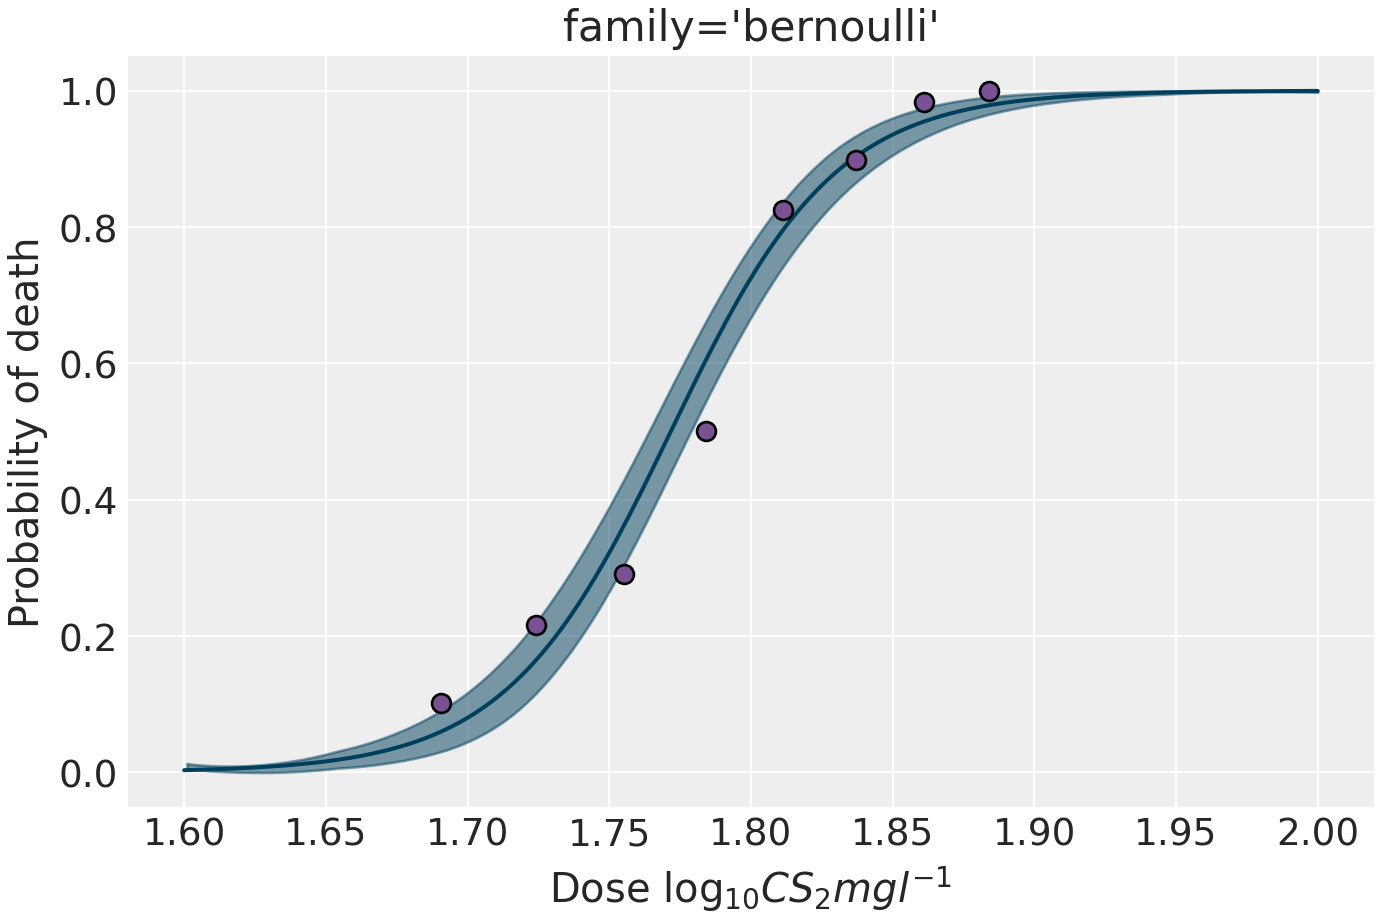
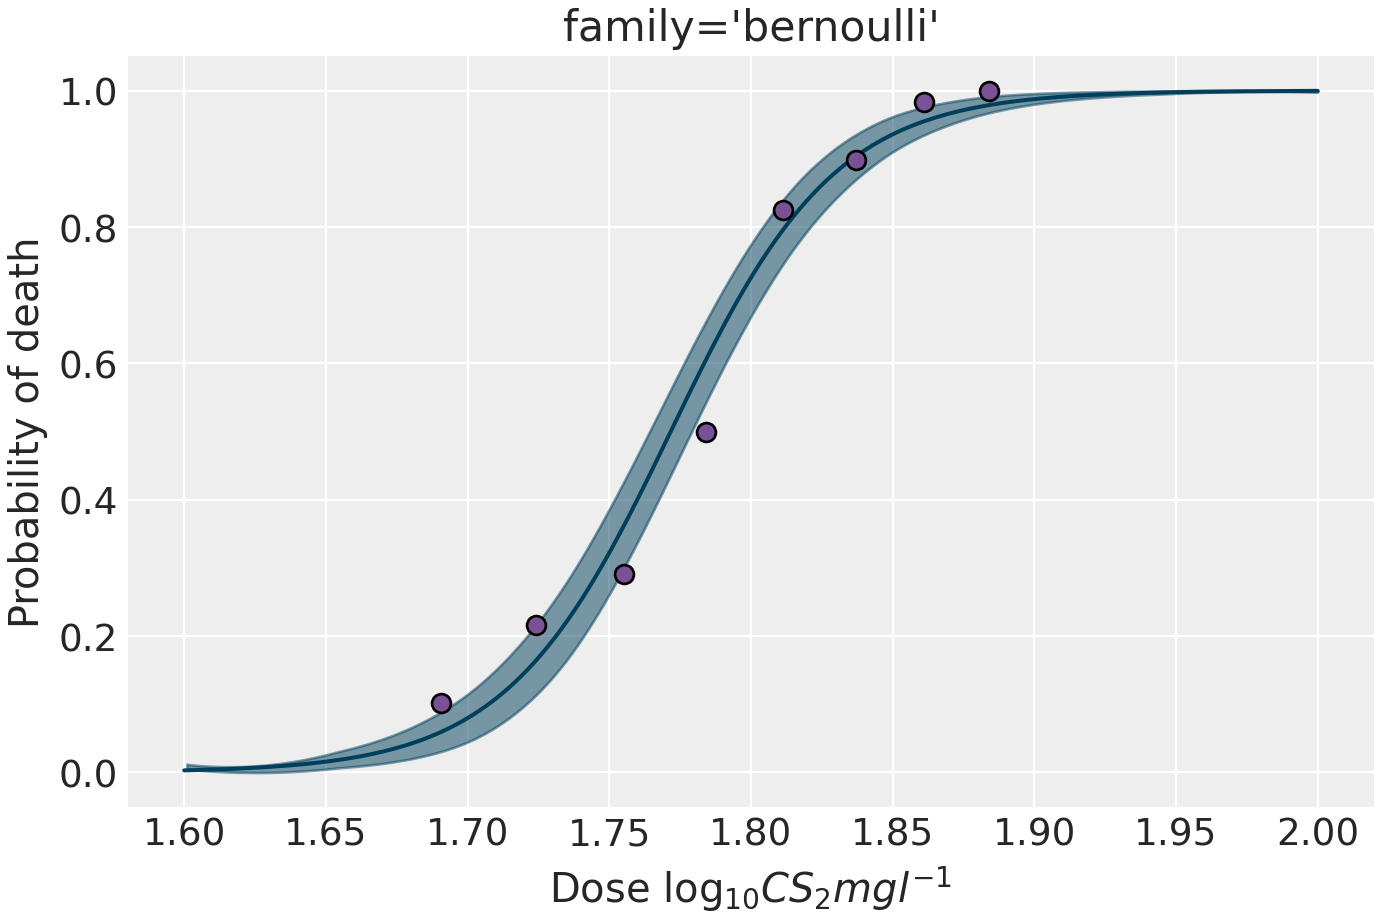
Rewrite sentence

diff --git a/content/post/2021-08-03-binomial-family-in-Bambi.html b/content/post/2021-08-03-binomial-family-in-Bambi.html
@@ -112,8 +112,8 @@ independent Bernoulli trials). In other words, for a given row, we can think
 there’s a Binomial distribution where <strong>Dead</strong> represents the number of
 successes out of <strong>Total</strong> number of trials (each mouse is a trial).</p>
 <p>Before continuing, it’s important to note that if the data is originally
-aggregated as in the upper table, it can always be disaggregated to resemble
-the one in the lower table. So what’s the problem?</p>
+aggregated as in the lower table, it can always be disaggregated to resemble
+the one in the upper table. So what’s the problem?</p>
 <p>The answer is that there’s actually nothing wrong with having the data in such
 a granular form! But, if the data already comes aggregated, why doing extra
 work when we now have the Binomial family? Let’s have a look at the examples
@@ -231,13 +231,13 @@ idata_brn = model_brn.fit()</code></pre>
 <p>and explore the marginal posteriors</p>
 <pre class="python"><code>az.summary(idata_brn, kind=&quot;stats&quot;)</code></pre>
 <pre><code>##              mean     sd  hdi_3%  hdi_97%
-## Intercept -61.080  5.264 -70.758  -51.139
-## x          34.475  2.958  28.872   39.940</code></pre>
+## Intercept -61.141  5.015 -70.230  -51.811
+## x          34.510  2.818  29.438   39.787</code></pre>
 <p>We can predict the the probability of dying for out-of-sample data to see how
 it evolves with the different concentration levels.</p>
 <pre class="python"><code>new_data = pd.DataFrame({&quot;x&quot;: np.linspace(1.6, 2, num=200)})
 model_brn.predict(idata_brn, data=new_data)</code></pre>
-<p>Let’s visualize the mean of the probability of dying well as the HDI for
+<p>Let’s visualize the mean of the probability of dying as well as the HDI for
 the posterior of this probability:</p>
 <pre class="python"><code>fig, ax = plt.subplots()
 
@@ -288,8 +288,8 @@ the Bernoulli family. However, the new Binomial family allows us to
 as the one displayed above.</p>
 <pre class="python"><code>az.summary(idata_bnml, kind=&quot;stats&quot;)</code></pre>
 <pre><code>##              mean     sd  hdi_3%  hdi_97%
-## Intercept -60.923  5.154 -70.272  -51.468
-## x          34.386  2.897  29.144   39.769</code></pre>
+## Intercept -61.023  5.130 -70.040  -51.145
+## x          34.442  2.884  28.914   39.571</code></pre>
 <pre class="python"><code>model_bnml.predict(idata_bnml, data=new_data)</code></pre>
 <pre class="python"><code>fig, ax = plt.subplots()
 

diff --git a/public/post/2021-08-03-binomial-family-in-bambi/index.html b/public/post/2021-08-03-binomial-family-in-bambi/index.html
@@ -274,8 +274,8 @@ independent Bernoulli trials). In other words, for a given row, we can think
 there’s a Binomial distribution where <strong>Dead</strong> represents the number of
 successes out of <strong>Total</strong> number of trials (each mouse is a trial).</p>
 <p>Before continuing, it’s important to note that if the data is originally
-aggregated as in the upper table, it can always be disaggregated to resemble
-the one in the lower table. So what’s the problem?</p>
+aggregated as in the lower table, it can always be disaggregated to resemble
+the one in the upper table. So what’s the problem?</p>
 <p>The answer is that there’s actually nothing wrong with having the data in such
 a granular form! But, if the data already comes aggregated, why doing extra
 work when we now have the Binomial family? Let’s have a look at the examples
@@ -393,13 +393,13 @@ idata_brn = model_brn.fit()</code></pre>
 <p>and explore the marginal posteriors</p>
 <pre class="python"><code>az.summary(idata_brn, kind=&quot;stats&quot;)</code></pre>
 <pre><code>##              mean     sd  hdi_3%  hdi_97%
-## Intercept -61.080  5.264 -70.758  -51.139
-## x          34.475  2.958  28.872   39.940</code></pre>
+## Intercept -61.141  5.015 -70.230  -51.811
+## x          34.510  2.818  29.438   39.787</code></pre>
 <p>We can predict the the probability of dying for out-of-sample data to see how
 it evolves with the different concentration levels.</p>
 <pre class="python"><code>new_data = pd.DataFrame({&quot;x&quot;: np.linspace(1.6, 2, num=200)})
 model_brn.predict(idata_brn, data=new_data)</code></pre>
-<p>Let’s visualize the mean of the probability of dying well as the HDI for
+<p>Let’s visualize the mean of the probability of dying as well as the HDI for
 the posterior of this probability:</p>
 <pre class="python"><code>fig, ax = plt.subplots()
 
@@ -450,8 +450,8 @@ the Bernoulli family. However, the new Binomial family allows us to
 as the one displayed above.</p>
 <pre class="python"><code>az.summary(idata_bnml, kind=&quot;stats&quot;)</code></pre>
 <pre><code>##              mean     sd  hdi_3%  hdi_97%
-## Intercept -60.923  5.154 -70.272  -51.468
-## x          34.386  2.897  29.144   39.769</code></pre>
+## Intercept -61.023  5.130 -70.040  -51.145
+## x          34.442  2.884  28.914   39.571</code></pre>
 <pre class="python"><code>model_bnml.predict(idata_bnml, data=new_data)</code></pre>
 <pre class="python"><code>fig, ax = plt.subplots()
 
